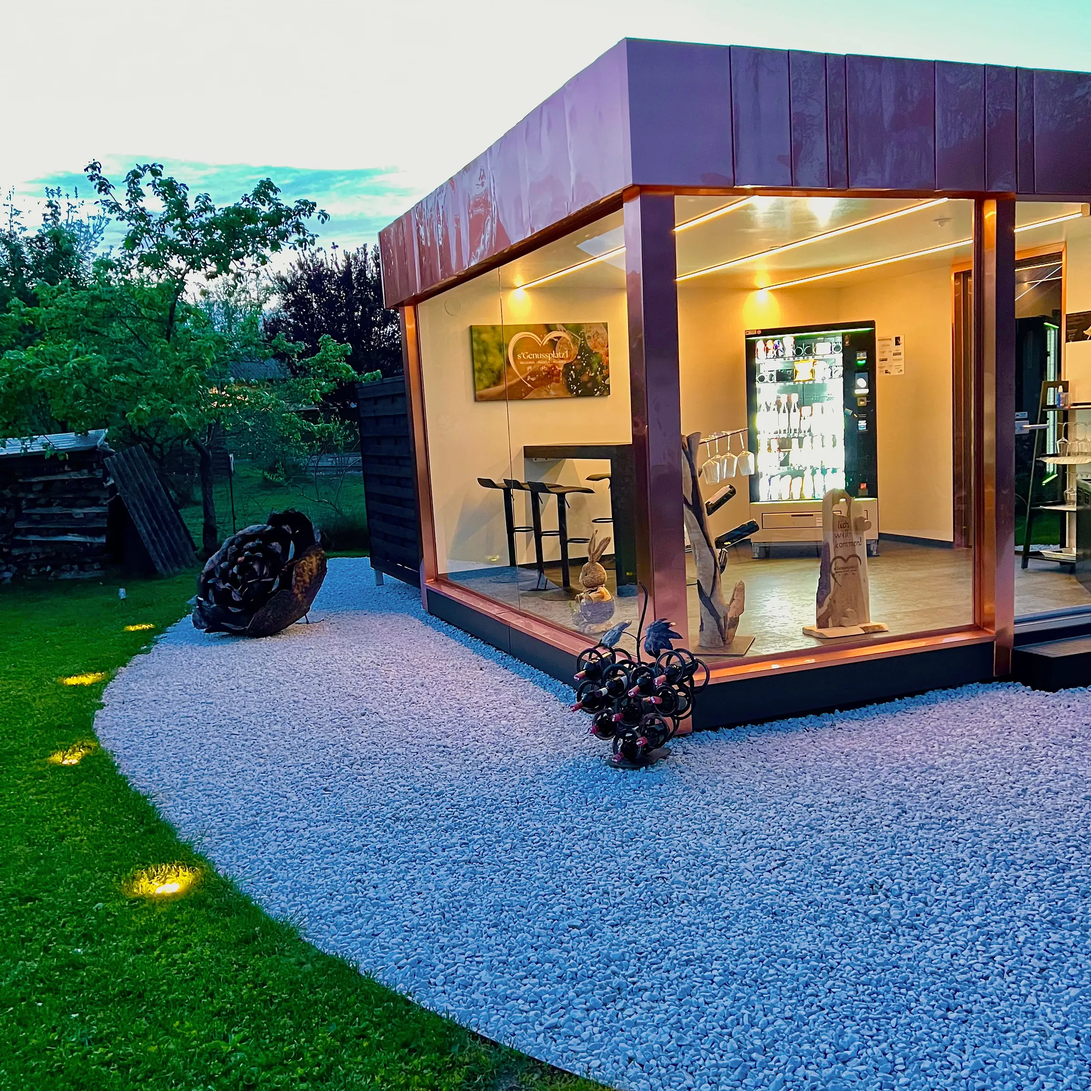
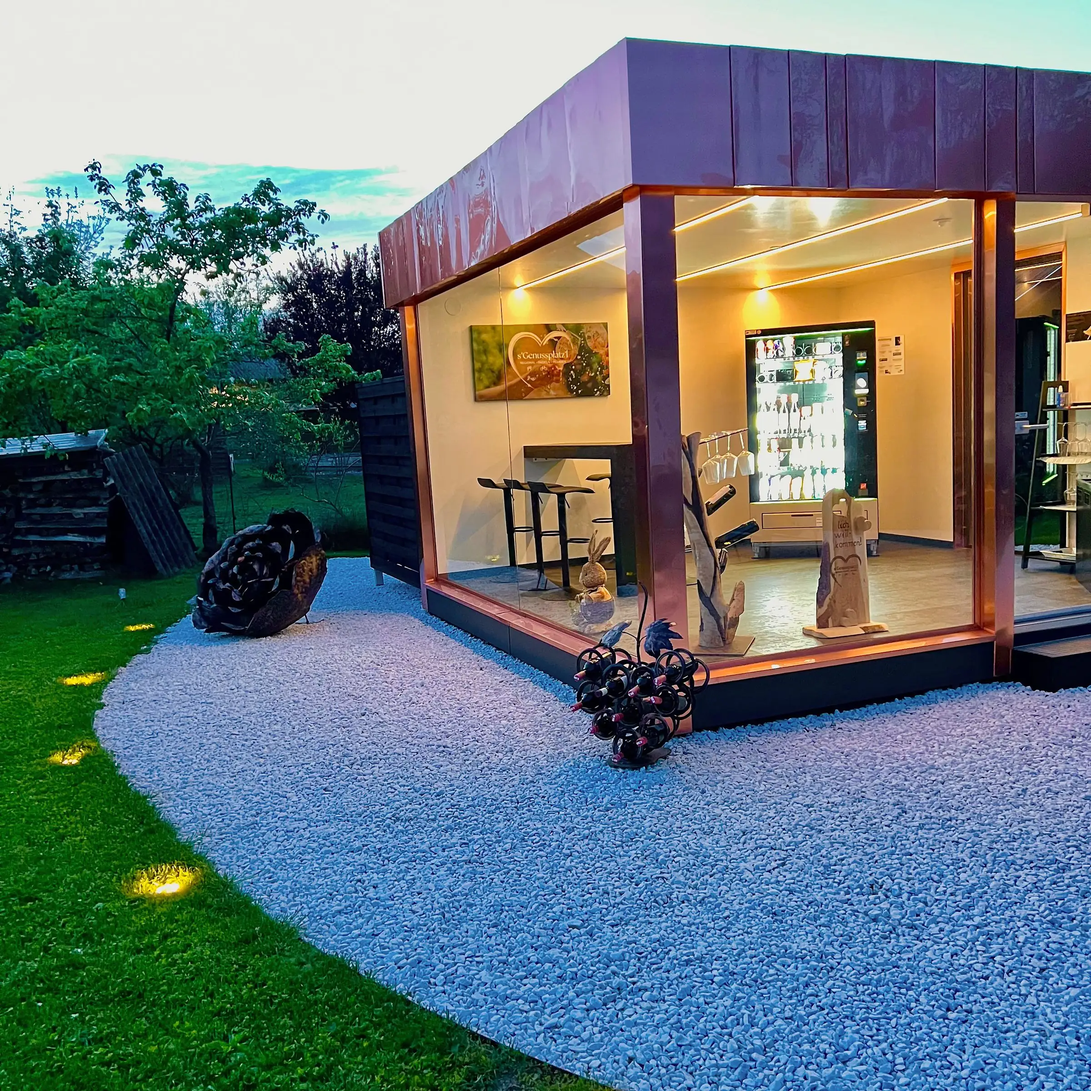
Ladezeit: Titelbild in passenden Größen, kleiner Hintergrund
- Titelbild zusätzlich in 1600 px, leichtere WebP-Dateien, Größenangabe passend zur tatsächlichen Breite
- unscharfer Hintergrund aus einer 480-px-Datei statt 1200 px

diff --git a/hu/index.html b/hu/index.html
@@ -61,11 +61,11 @@
 
 <main id="top">
   <section class="hero" aria-labelledby="hero-title">
-    <div class="hero__backdrop" aria-hidden="true"><img src="../images/abend-q-1200.jpg" alt="" width="1200" height="1200"></div>
+    <div class="hero__backdrop" aria-hidden="true"><img src="../images/abend-q-480.jpg" alt="" width="480" height="480"></div>
     <div class="hero__photo" data-slot="hero" data-alt="A Genussplatzl esti szürkületben, kivilágított belső térrel">
       <picture>
-        <source type="image/webp" srcset="../images/abend-q-1200.webp 1200w, ../images/abend-q-2400.webp 2400w" sizes="100vw">
-        <img src="../images/abend-q-2400.jpg" srcset="../images/abend-q-1200.jpg 1200w, ../images/abend-q-2400.jpg 2400w" sizes="100vw" width="2400" height="2400" alt="A Genussplatzl esti szürkületben: rézborítású tető, kivilágított belső tér, fémszobrok a kavicson" fetchpriority="high">
+        <source type="image/webp" srcset="../images/abend-q-1200.webp 1200w, ../images/abend-q-1600.webp 1600w, ../images/abend-q-2400.webp 2400w" sizes="(max-width: 40rem) 100vw, min(100vw, 140vh)">
+        <img src="../images/abend-q-2400.jpg" srcset="../images/abend-q-1200.jpg 1200w, ../images/abend-q-1600.jpg 1600w, ../images/abend-q-2400.jpg 2400w" sizes="(max-width: 40rem) 100vw, min(100vw, 140vh)" width="2400" height="2400" alt="A Genussplatzl esti szürkületben: rézborítású tető, kivilágított belső tér, fémszobrok a kavicson" fetchpriority="high">
       </picture>
     </div>
     <div class="hero__scrim" aria-hidden="true"></div>

diff --git a/sl/index.html b/sl/index.html
@@ -61,11 +61,11 @@
 
 <main id="top">
   <section class="hero" aria-labelledby="hero-title">
-    <div class="hero__backdrop" aria-hidden="true"><img src="../images/abend-q-1200.jpg" alt="" width="1200" height="1200"></div>
+    <div class="hero__backdrop" aria-hidden="true"><img src="../images/abend-q-480.jpg" alt="" width="480" height="480"></div>
     <div class="hero__photo" data-slot="hero" data-alt="Genussplatzl v večernem mraku, osvetljen od znotraj">
       <picture>
-        <source type="image/webp" srcset="../images/abend-q-1200.webp 1200w, ../images/abend-q-2400.webp 2400w" sizes="100vw">
-        <img src="../images/abend-q-2400.jpg" srcset="../images/abend-q-1200.jpg 1200w, ../images/abend-q-2400.jpg 2400w" sizes="100vw" width="2400" height="2400" alt="Genussplatzl v večernem mraku: bakrena streha, osvetljen notranji prostor, umetniške figure na produ" fetchpriority="high">
+        <source type="image/webp" srcset="../images/abend-q-1200.webp 1200w, ../images/abend-q-1600.webp 1600w, ../images/abend-q-2400.webp 2400w" sizes="(max-width: 40rem) 100vw, min(100vw, 140vh)">
+        <img src="../images/abend-q-2400.jpg" srcset="../images/abend-q-1200.jpg 1200w, ../images/abend-q-1600.jpg 1600w, ../images/abend-q-2400.jpg 2400w" sizes="(max-width: 40rem) 100vw, min(100vw, 140vh)" width="2400" height="2400" alt="Genussplatzl v večernem mraku: bakrena streha, osvetljen notranji prostor, umetniške figure na produ" fetchpriority="high">
       </picture>
     </div>
     <div class="hero__scrim" aria-hidden="true"></div>

diff --git a/pages/hu/index.html b/pages/hu/index.html
@@ -1,9 +1,9 @@
   <section class="hero" aria-labelledby="hero-title">
-    <div class="hero__backdrop" aria-hidden="true"><img src="images/abend-q-1200.jpg" alt="" width="1200" height="1200"></div>
+    <div class="hero__backdrop" aria-hidden="true"><img src="images/abend-q-480.jpg" alt="" width="480" height="480"></div>
     <div class="hero__photo" data-slot="hero" data-alt="A Genussplatzl esti szürkületben, kivilágított belső térrel">
       <picture>
-        <source type="image/webp" srcset="images/abend-q-1200.webp 1200w, images/abend-q-2400.webp 2400w" sizes="100vw">
-        <img src="images/abend-q-2400.jpg" srcset="images/abend-q-1200.jpg 1200w, images/abend-q-2400.jpg 2400w" sizes="100vw" width="2400" height="2400" alt="A Genussplatzl esti szürkületben: rézborítású tető, kivilágított belső tér, fémszobrok a kavicson" fetchpriority="high">
+        <source type="image/webp" srcset="images/abend-q-1200.webp 1200w, images/abend-q-1600.webp 1600w, images/abend-q-2400.webp 2400w" sizes="(max-width: 40rem) 100vw, min(100vw, 140vh)">
+        <img src="images/abend-q-2400.jpg" srcset="images/abend-q-1200.jpg 1200w, images/abend-q-1600.jpg 1600w, images/abend-q-2400.jpg 2400w" sizes="(max-width: 40rem) 100vw, min(100vw, 140vh)" width="2400" height="2400" alt="A Genussplatzl esti szürkületben: rézborítású tető, kivilágított belső tér, fémszobrok a kavicson" fetchpriority="high">
       </picture>
     </div>
     <div class="hero__scrim" aria-hidden="true"></div>

diff --git a/index.html b/index.html
@@ -61,11 +61,11 @@
 
 <main id="top">
   <section class="hero" aria-labelledby="hero-title">
-    <div class="hero__backdrop" aria-hidden="true"><img src="images/abend-q-1200.jpg" alt="" width="1200" height="1200"></div>
+    <div class="hero__backdrop" aria-hidden="true"><img src="images/abend-q-480.jpg" alt="" width="480" height="480"></div>
     <div class="hero__photo" data-slot="hero" data-alt="Das Genussplatzl in der Abenddämmerung, innen beleuchtet">
       <picture>
-        <source type="image/webp" srcset="images/abend-q-1200.webp 1200w, images/abend-q-2400.webp 2400w" sizes="100vw">
-        <img src="images/abend-q-2400.jpg" srcset="images/abend-q-1200.jpg 1200w, images/abend-q-2400.jpg 2400w" sizes="100vw" width="2400" height="2400" alt="Das Genussplatzl in der Abenddämmerung: Kupferdach, beleuchteter Innenraum, Kunstfiguren im Kies" fetchpriority="high">
+        <source type="image/webp" srcset="images/abend-q-1200.webp 1200w, images/abend-q-1600.webp 1600w, images/abend-q-2400.webp 2400w" sizes="(max-width: 40rem) 100vw, min(100vw, 140vh)">
+        <img src="images/abend-q-2400.jpg" srcset="images/abend-q-1200.jpg 1200w, images/abend-q-1600.jpg 1600w, images/abend-q-2400.jpg 2400w" sizes="(max-width: 40rem) 100vw, min(100vw, 140vh)" width="2400" height="2400" alt="Das Genussplatzl in der Abenddämmerung: Kupferdach, beleuchteter Innenraum, Kunstfiguren im Kies" fetchpriority="high">
       </picture>
     </div>
     <div class="hero__scrim" aria-hidden="true"></div>

diff --git a/en/index.html b/en/index.html
@@ -61,11 +61,11 @@
 
 <main id="top">
   <section class="hero" aria-labelledby="hero-title">
-    <div class="hero__backdrop" aria-hidden="true"><img src="../images/abend-q-1200.jpg" alt="" width="1200" height="1200"></div>
+    <div class="hero__backdrop" aria-hidden="true"><img src="../images/abend-q-480.jpg" alt="" width="480" height="480"></div>
     <div class="hero__photo" data-slot="hero" data-alt="The Genussplatzl at dusk, lit from within">
       <picture>
-        <source type="image/webp" srcset="../images/abend-q-1200.webp 1200w, ../images/abend-q-2400.webp 2400w" sizes="100vw">
-        <img src="../images/abend-q-2400.jpg" srcset="../images/abend-q-1200.jpg 1200w, ../images/abend-q-2400.jpg 2400w" sizes="100vw" width="2400" height="2400" alt="The Genussplatzl at dusk: copper roof, lit interior, sculptures in the gravel" fetchpriority="high">
+        <source type="image/webp" srcset="../images/abend-q-1200.webp 1200w, ../images/abend-q-1600.webp 1600w, ../images/abend-q-2400.webp 2400w" sizes="(max-width: 40rem) 100vw, min(100vw, 140vh)">
+        <img src="../images/abend-q-2400.jpg" srcset="../images/abend-q-1200.jpg 1200w, ../images/abend-q-1600.jpg 1600w, ../images/abend-q-2400.jpg 2400w" sizes="(max-width: 40rem) 100vw, min(100vw, 140vh)" width="2400" height="2400" alt="The Genussplatzl at dusk: copper roof, lit interior, sculptures in the gravel" fetchpriority="high">
       </picture>
     </div>
     <div class="hero__scrim" aria-hidden="true"></div>

diff --git a/pages/sl/index.html b/pages/sl/index.html
@@ -1,9 +1,9 @@
   <section class="hero" aria-labelledby="hero-title">
-    <div class="hero__backdrop" aria-hidden="true"><img src="images/abend-q-1200.jpg" alt="" width="1200" height="1200"></div>
+    <div class="hero__backdrop" aria-hidden="true"><img src="images/abend-q-480.jpg" alt="" width="480" height="480"></div>
     <div class="hero__photo" data-slot="hero" data-alt="Genussplatzl v večernem mraku, osvetljen od znotraj">
       <picture>
-        <source type="image/webp" srcset="images/abend-q-1200.webp 1200w, images/abend-q-2400.webp 2400w" sizes="100vw">
-        <img src="images/abend-q-2400.jpg" srcset="images/abend-q-1200.jpg 1200w, images/abend-q-2400.jpg 2400w" sizes="100vw" width="2400" height="2400" alt="Genussplatzl v večernem mraku: bakrena streha, osvetljen notranji prostor, umetniške figure na produ" fetchpriority="high">
+        <source type="image/webp" srcset="images/abend-q-1200.webp 1200w, images/abend-q-1600.webp 1600w, images/abend-q-2400.webp 2400w" sizes="(max-width: 40rem) 100vw, min(100vw, 140vh)">
+        <img src="images/abend-q-2400.jpg" srcset="images/abend-q-1200.jpg 1200w, images/abend-q-1600.jpg 1600w, images/abend-q-2400.jpg 2400w" sizes="(max-width: 40rem) 100vw, min(100vw, 140vh)" width="2400" height="2400" alt="Genussplatzl v večernem mraku: bakrena streha, osvetljen notranji prostor, umetniške figure na produ" fetchpriority="high">
       </picture>
     </div>
     <div class="hero__scrim" aria-hidden="true"></div>

diff --git a/pages/index.html b/pages/index.html
@@ -1,9 +1,9 @@
   <section class="hero" aria-labelledby="hero-title">
-    <div class="hero__backdrop" aria-hidden="true"><img src="images/abend-q-1200.jpg" alt="" width="1200" height="1200"></div>
+    <div class="hero__backdrop" aria-hidden="true"><img src="images/abend-q-480.jpg" alt="" width="480" height="480"></div>
     <div class="hero__photo" data-slot="hero" data-alt="Das Genussplatzl in der Abenddämmerung, innen beleuchtet">
       <picture>
-        <source type="image/webp" srcset="images/abend-q-1200.webp 1200w, images/abend-q-2400.webp 2400w" sizes="100vw">
-        <img src="images/abend-q-2400.jpg" srcset="images/abend-q-1200.jpg 1200w, images/abend-q-2400.jpg 2400w" sizes="100vw" width="2400" height="2400" alt="Das Genussplatzl in der Abenddämmerung: Kupferdach, beleuchteter Innenraum, Kunstfiguren im Kies" fetchpriority="high">
+        <source type="image/webp" srcset="images/abend-q-1200.webp 1200w, images/abend-q-1600.webp 1600w, images/abend-q-2400.webp 2400w" sizes="(max-width: 40rem) 100vw, min(100vw, 140vh)">
+        <img src="images/abend-q-2400.jpg" srcset="images/abend-q-1200.jpg 1200w, images/abend-q-1600.jpg 1600w, images/abend-q-2400.jpg 2400w" sizes="(max-width: 40rem) 100vw, min(100vw, 140vh)" width="2400" height="2400" alt="Das Genussplatzl in der Abenddämmerung: Kupferdach, beleuchteter Innenraum, Kunstfiguren im Kies" fetchpriority="high">
       </picture>
     </div>
     <div class="hero__scrim" aria-hidden="true"></div>

diff --git a/pages/en/index.html b/pages/en/index.html
@@ -1,9 +1,9 @@
   <section class="hero" aria-labelledby="hero-title">
-    <div class="hero__backdrop" aria-hidden="true"><img src="images/abend-q-1200.jpg" alt="" width="1200" height="1200"></div>
+    <div class="hero__backdrop" aria-hidden="true"><img src="images/abend-q-480.jpg" alt="" width="480" height="480"></div>
     <div class="hero__photo" data-slot="hero" data-alt="The Genussplatzl at dusk, lit from within">
       <picture>
-        <source type="image/webp" srcset="images/abend-q-1200.webp 1200w, images/abend-q-2400.webp 2400w" sizes="100vw">
-        <img src="images/abend-q-2400.jpg" srcset="images/abend-q-1200.jpg 1200w, images/abend-q-2400.jpg 2400w" sizes="100vw" width="2400" height="2400" alt="The Genussplatzl at dusk: copper roof, lit interior, sculptures in the gravel" fetchpriority="high">
+        <source type="image/webp" srcset="images/abend-q-1200.webp 1200w, images/abend-q-1600.webp 1600w, images/abend-q-2400.webp 2400w" sizes="(max-width: 40rem) 100vw, min(100vw, 140vh)">
+        <img src="images/abend-q-2400.jpg" srcset="images/abend-q-1200.jpg 1200w, images/abend-q-1600.jpg 1600w, images/abend-q-2400.jpg 2400w" sizes="(max-width: 40rem) 100vw, min(100vw, 140vh)" width="2400" height="2400" alt="The Genussplatzl at dusk: copper roof, lit interior, sculptures in the gravel" fetchpriority="high">
       </picture>
     </div>
     <div class="hero__scrim" aria-hidden="true"></div>
